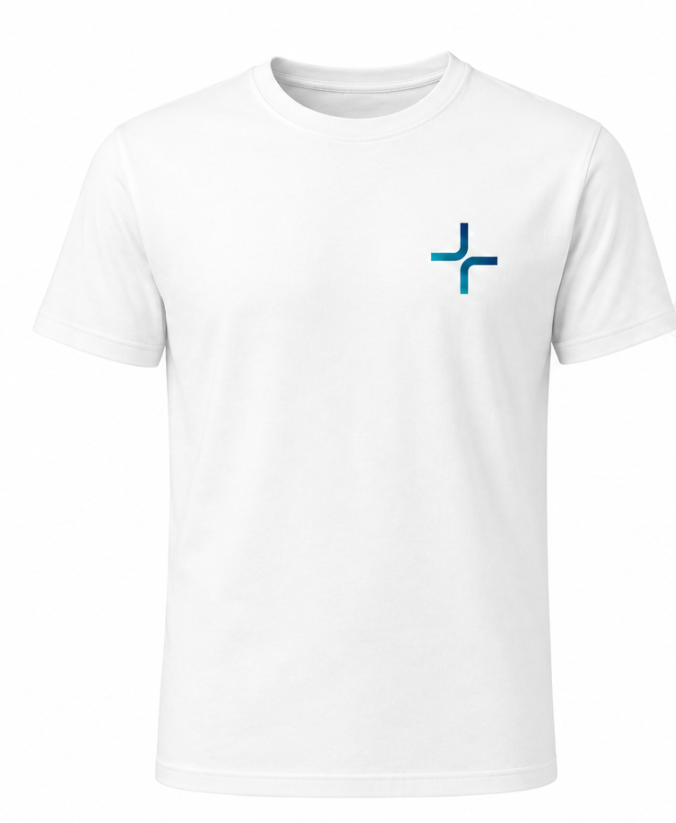
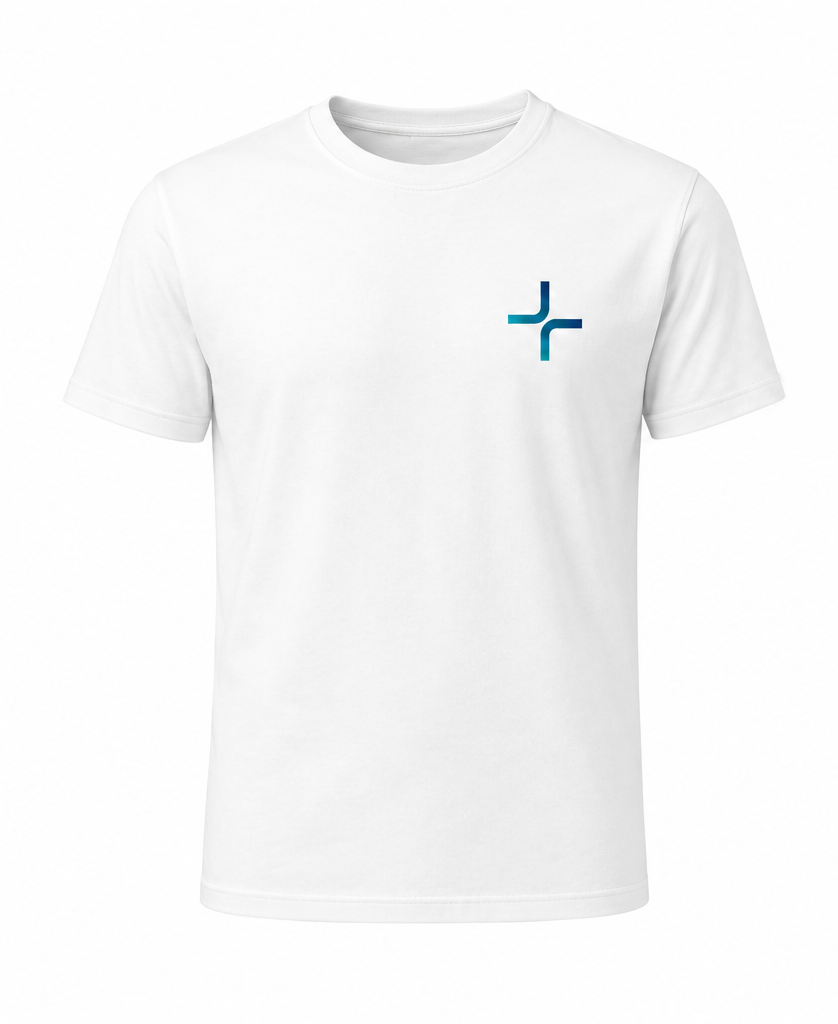
Asta implementiert

diff --git a/database/seeders/ProductSeeder.php b/database/seeders/ProductSeeder.php
@@ -690,6 +690,145 @@ class ProductSeeder extends Seeder
                 ]
             ]
         ]);
+         Product::create([
+                'id' => fake()->uuid(),
+                'category_id' => '1',
+                'supplier_name' => "le_sserafim",
+                'name' => "AStA-Shirt",
+                'handle' => "asta_shirt",
+                'description' => "Ein schlichtes Tshirt mit dem Aufdruck des AStAs. Schlicht, bequem und dennoch schick, 100% Baumwolle, perfekt für die nächste Vorlesung!",
+                'price' => fake()->numberBetween(29,30),
+                'attributes' => [
+                    'default_pictures' => [
+                        [
+                            'picture_storage_key' => "asta-Shirt-Blau-Vorne.png"
+                        ],
+                        [
+                            'picture_storage_key' => "asta-Shirt-Blau-Hinten.png"
+                        ],
+                        [
+                            'picture_storage_key' => "asta-Shirt-Rot-Vorne.png"
+                        ],
+                        [
+                            'picture_storage_key' => "asta-Shirt-Rot-Hinten.png"
+                        ]
+                    ],
+                    'assets' => [
+                        [
+                            "asset_storage_key" => "asta-logo.png",
+                            "position" => "front"
+                        ],
+                        [
+                            "asset_storage_key" => "BHH-Logo.png",
+                            "position" => "back"
+                        ]
+                    ],
+                   'properties' => [
+                    'color' => [
+                        [
+                            'displayName' => 'blau',
+                            'value' => '#2c0866',
+                            'pictures' => [
+                                [
+                                    'picture_storage_key' => "asta-Shirt-Blau-Vorne.png"
+                                ],
+                                [
+                                    'picture_storage_key' => "asta-Shirt-Blau-Hinten.png"
+                                ]
+                            ],
+                            'externalId' => 'asduashkwda'
+                        ],
+                        [
+                            'displayName' => 'rot',
+                            'value' => '#c20d0d',
+                            'pictures' => [
+                                [
+                                    'picture_storage_key' => "asta-Shirt-Rot-Vorne.png"
+                                ],
+                                [
+                                    'picture_storage_key' => "asta-Shirt-Rot-Hinten.png"
+                                ]
+                            ],
+                            'externalId' => 'asduawhkdaa'
+                        ],
+                       
+                    ],
+                        'size' => ['XL', 'L', 'M','S'],
+                        'material' => ['Baumwolle'],
+                        'print' => ['AStA']
+                    ]
+                ]
+            ]);
+
+             Product::create([
+                'id' => fake()->uuid(),
+                'category_id' => '2',
+                'supplier_name' => "le_sserafim",
+                'name' => "AStA-Hoodie",
+                'handle' => "asta_hoodie",
+                'description' => "Angenehm warmer kuscheliger Baumwollhoodie mit Aufdruck des AStAs. Wie cool! Für alle, die im Winter die Vorlesungen überstehen möchten!",
+                'price' => fake()->numberBetween(29,30),
+                'attributes' => [
+                    'default_pictures' => [
+                        [
+                            'picture_storage_key' => "asta-Hoodie-Blau-Vorne.png"
+                        ],
+                        [
+                            'picture_storage_key' => "asta-Hoodie-Blau-Hinten.png"
+                        ],
+                        [
+                            'picture_storage_key' => "asta-Hoodie-Rot-Vorne.png"
+                        ],
+                        [
+                            'picture_storage_key' => "asta-Hoodie-Rot-Hinten.png"
+                        ]
+                    ],
+                    'assets' => [
+                        [
+                            "asset_storage_key" => "asta-logo.png",
+                            "position" => "front"
+                        ],
+                        [
+                            "asset_storage_key" => "BHH-Logo.png",
+                            "position" => "back"
+                        ]
+                    ],
+                   'properties' => [
+                    'color' => [
+                        [
+                            'displayName' => 'blau',
+                            'value' => '#2c0866',
+                            'pictures' => [
+                                [
+                                    'picture_storage_key' => "asta-Hoodie-Blau-Vorne.png"
+                                ],
+                                [
+                                    'picture_storage_key' => "asta-Hoodie-Blau-Hinten.png"
+                                ]
+                            ],
+                            'externalId' => 'asduashkwda'
+                        ],
+                        [
+                            'displayName' => 'rot',
+                            'value' => '#c20d0d',
+                            'pictures' => [
+                                [
+                                    'picture_storage_key' => "asta-Hoodie-Rot-Vorne.png"
+                                ],
+                                [
+                                    'picture_storage_key' => "asta-Hoodie-Rot-Hinten.png"
+                                ]
+                            ],
+                            'externalId' => 'asduawhkdaa'
+                        ],
+                       
+                    ],
+                        'size' => ['XL', 'L', 'M','S'],
+                        'material' => ['Baumwolle'],
+                        'print' => ['AStA']
+                    ]
+                ]
+            ]);
     }
     }
 

diff --git a/database/seeders/ProductCategorySeeder.php b/database/seeders/ProductCategorySeeder.php
@@ -69,9 +69,7 @@ class ProductCategorySeeder extends Seeder
                     'displayName' => 'Schuhgröße',
                     'type' => 'select'
                 ],
-                'material' => [
-                    'displayName' => 'Material',
-                    'type' => 'select'
+             
                 ],
                 'print' => [
                     'displayName' => 'Aufdruck',
@@ -94,10 +92,7 @@ class ProductCategorySeeder extends Seeder
                     'type' => 'select'
                
                 ],
-                'waterproof' => [
-                    'displayName' => 'Wasserdicht',
-                    'type' => 'select'
-                ],
+               
                 'print' => [
                     'displayName' => 'Aufdruck',
                     'type' => 'select'
@@ -129,12 +124,7 @@ class ProductCategorySeeder extends Seeder
             'category_id' => 6,
             'name' => 'Kartenspiel',
             'filters' => [
-                'type' => [
-                    'displayName' => 'Kartenspieltyp',
-                    'type' => 'select'
                 
-    
-                ],
                 'print' => [
                     'displayName' => 'Aufdruck',
                     'type' => 'select'
